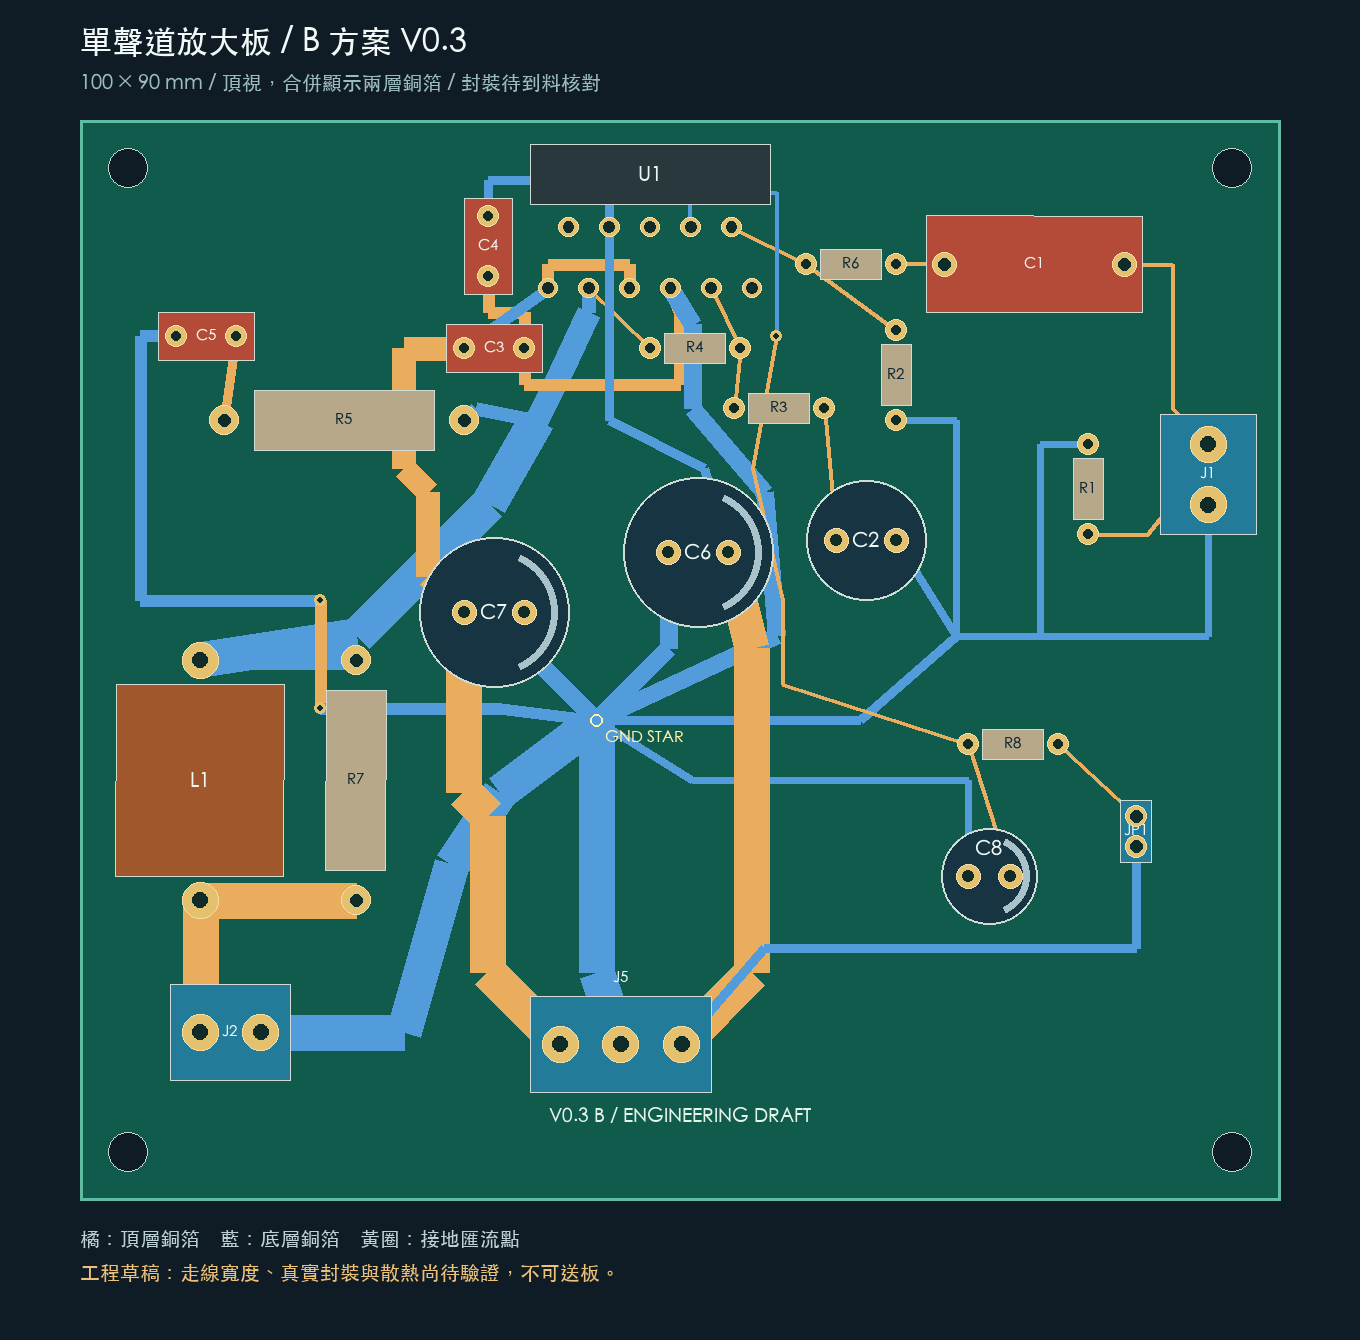
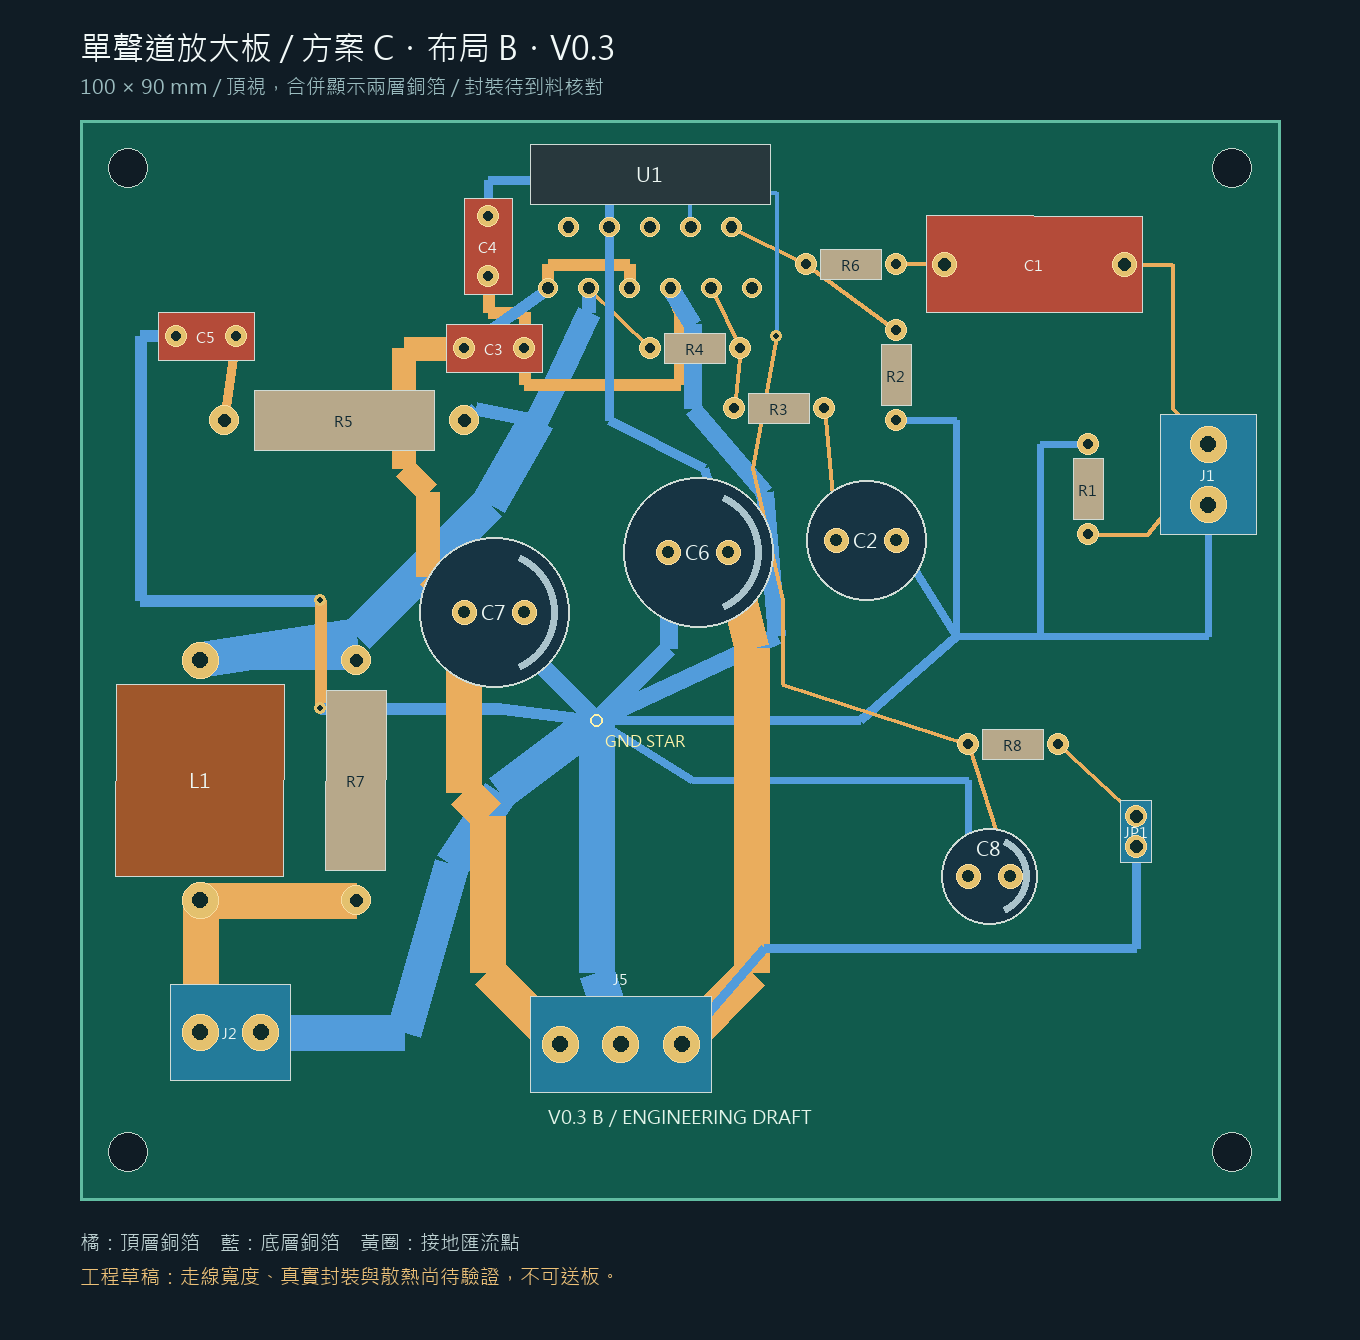
docs: 重建六張導讀圖與 PCB 預覽，同步 9/20 下單後狀態
- build_diagrams.py：C1/C3/C4/C8 耐壓改實購 100V、R8 改 0.6W；過期採購文字改現況；
  修正 R4 標籤被橙框遮住、GND 註記壓線；IC→輸出圖頁尾改指向 pcb/README.md
- sources.json 只綁生成器與 PDF（sch UUID 每次重建都變），文字來源 LF 正規化
- render_pcb_v03.py：標題「B 方案」改「方案 C PCB V0.3（布局 B）」，副標改現況
- 色塊導讀圖底圖仍為 9/16 PDF，待 KiCad 重建

Claude-Session: https://claude.ai/code/session_01VZFcAZi4ZF5VMXyWsJWQww

diff --git a/tools/build_diagrams.py b/tools/build_diagrams.py
@@ -55,7 +55,7 @@ class SVG:
         self.text(45,55,title,38,'white','bold');self.text(45,103,sub,23,'#dbe8f0')
     def footer(self,s):
         self.text(45,self.h-52,s,21,GRAY)
-        self.text(45,self.h-20,'方案 C V0.3  •  2026-09-17  •  工程草稿／無硬體量測  •  docs/diagrams/README.md',19,GRAY)
+        self.text(45,self.h-20,'方案 C V0.3  •  2026-09-22  •  工程草稿／無硬體量測  •  docs/diagrams/README.md',19,GRAY)
     def save(self,name):
         (SRC/(name+'.svg')).write_text(f'<svg xmlns="http://www.w3.org/2000/svg" xmlns:xlink="http://www.w3.org/1999/xlink" width="{self.w}" height="{self.h}" viewBox="0 0 {self.w} {self.h}">'+''.join(self.items)+'</svg>',encoding='utf-8')
 
@@ -71,7 +71,7 @@ def signal(mode='all'):
     d.text(915,500,'8 MUTE → 見電源／靜音圖',22,PURPLE,anchor='middle')
     input_start=len(d.items)
     d.line([(100,260),(305,260)]);d.text(80,210,'J1.1 RCA',25,BLUE)
-    d.cap(350,260,'C1 2.2µF / 63V')
+    d.cap(350,260,'C1 2.2µF / 100V')
     d.line([(395,260),(460,260)]);d.resistor(520,260,'R6 1kΩ')
     d.line([(580,260),(800,260)])
     for x,label in [(200,'R1 1MΩ'),(675,'R2 22kΩ')]:
@@ -135,7 +135,7 @@ def supply(d,y=0):
     d.line([(740,300+y),(1510,300+y)],RED)
     d.line([(740,395+y),(870,395+y),(870,580+y)],GRAY)
     d.line([(740,700+y),(870,700+y),(870,580+y),(1510,580+y)],GRAY)
-    d.dot(870,580+y,GRAY);d.text(910,562+y,'GND：BR1− 與 BR2+ 的 DC 中點',24,GRAY)
+    d.dot(870,580+y,GRAY);d.text(1525,625+y,'GND = BR1− 與 BR2+',22,GRAY);d.text(1525,655+y,'的 DC 中點',22,GRAY)
     d.line([(740,795+y),(1510,795+y)],BLUE)
     for x,labels in [(1020,('C201','C203')),(1290,('C202','C204'))]:
         for yy,a,b,label,col in [(440+y,300+y,580+y,labels[0],RED),(680+y,580+y,795+y,labels[1],BLUE)]:
@@ -164,15 +164,20 @@ def build():
     d=SVG(1800,1860);d.header('LM3886｜電源級到 IC','雙獨立 22Vac 次級各接全橋；12Vac 輔助繞組留供控制，模組輸入與電流待定。')
     supply(d)
     d.panel(50,980,815,'PSU → 放大板線束',['J203.1 → J5.1 VCC → U1/U2 pin 1、5。','J203.2 → J5.2 GND → U1/U2 pin 7 及各回地。','J203.3 → J5.3 VEE → U1/U2 pin 4。','兩份原理圖靠實體線束相接，同名標籤不跨檔接線。','R201/R202 各 2.2kΩ / 2W，分別跨正／負軌。','C205/C206 各 100nF / 100V，分別跨正／負軌。'],BLUE)
-    d.panel(905,980,845,'局部去耦（左聲道，右聲道編號 +100）',['VCC–GND：C3 100nF / 63V；C7 470µF / 63V。','GND–VEE：C4 100nF / 63V；C6 470µF / 63V。','C7 正端接 VCC；C6 正端接 GND。','PCB V0.3：C3/C4 地端在 IC 附近回 pin 7，','再由局部去耦支路回匯流區；訊號地另走支路。','GND 網名不表示各路電流應共用同一段細線。'],GREEN)
-    d.panel(50,1290,815,'靜音支路（左聲道）',['pin 8 → R8 22kΩ / 0.25W → JP1 → VEE。','C8 100µF / 63V：正端 GND，負端 pin 8。','JP1 閉合 RUN；開路 MUTE。右聲道為 JP2。','這是板級測試跳線；自動啟停／掉電控制待設計。'],PURPLE)
-    d.panel(905,1290,845,'供電條件與選型狀態',['22×√2 − 2×1.1 ≈ 28.9V／軌：未扣紋波／下陷。','35.8V／軌是高市電空載假設，非最大電壓保證。','僅變壓器與 IC 已訂、仍待到貨；其餘料件待購。','橋堆料號、保險絲、浪湧控制及散熱尚未定案。'],ORANGE)
+    d.panel(905,980,845,'局部去耦（左聲道，右聲道編號 +100）',['VCC–GND：C3 100nF / 100V；C7 470µF / 63V。','GND–VEE：C4 100nF / 100V；C6 470µF / 63V。','C7 正端接 VCC；C6 正端接 GND。','PCB V0.3：C3/C4 地端在 IC 附近回 pin 7，','再由局部去耦支路回匯流區；訊號地另走支路。','GND 網名不表示各路電流應共用同一段細線。'],GREEN)
+    d.panel(50,1290,815,'靜音支路（左聲道）',['pin 8 → R8 22kΩ / 0.6W → JP1 → VEE。','C8 100µF / 100V：正端 GND，負端 pin 8。','JP1 閉合 RUN；開路 MUTE。右聲道為 JP2。','這是板級測試跳線；自動啟停／掉電控制待設計。'],PURPLE)
+    d.panel(905,1290,845,'供電條件與選型狀態',['22×√2 − 2×1.1 ≈ 28.9V／軌：未扣紋波／下陷。','35.8V／軌是高市電空載假設，非最大電壓保證。','變壓器、IC、全部 R／C 已下單待到貨（9/16、9/20）。','橋堆、保險絲、電感、接頭、浪湧控制及散熱未購／未定案。'],ORANGE)
     d.panel(50,1540,1700,'機構與整機保護',['LM3886T 背板接 VEE，與接地機殼／散熱器間須具電氣絕緣；pin 2、6、11 為 NC。','保護接地 PE 的機殼連接不可由訊號 GND 替代；本圖僅次級與放大板導讀，一次側接線另行設計。'],RED)
-    d.footer('兩顆橋堆與四顆主電容均未購；未指定 KBPC2510 或 300VA，未宣稱實際輸出額定。');d.save('lm3886_power_to_ic')
+    d.footer('四顆主電容 CDE 381LX 已購待到貨；兩顆橋堆未購、未指定 KBPC2510，未宣稱實際輸出額定。');d.save('lm3886_power_to_ic')
     annotated('lm3886-v01','lm3886_sch_annotated',False)
     annotated('internal-psu-v02','lm3886_psu_sch_annotated',True)
-    sources=['tools/build_schematic.py','tools/build_power_supply.py','electrical/lm3886-v01.kicad_sch','electrical/internal-psu-v02.kicad_sch','electrical/preview/lm3886-v01.pdf','electrical/preview/internal-psu-v02.pdf','pcb/README.md']
-    (OUT/'sources.json').write_text(json.dumps({'version':'Plan C V0.3','updated':'2026-09-17','sha256':{p:hashlib.sha256((ROOT/p).read_bytes()).hexdigest() for p in sources}},indent=2),encoding='utf-8')
+    # .kicad_sch files carry fresh UUIDs on every rebuild, so their hashes are not reproducible; bind generators and exported PDFs only.
+    sources=['tools/build_schematic.py','tools/build_power_supply.py','tools/build_diagrams.py','electrical/preview/lm3886-v01.pdf','electrical/preview/internal-psu-v02.pdf']
+    def digest(p):
+        b=(ROOT/p).read_bytes()
+        if p.endswith('.py'): b=b.replace(b'\r\n',b'\n')  # LF-normalise text so Windows autocrlf checkouts match the repository hash
+        return hashlib.sha256(b).hexdigest()
+    (OUT/'sources.json').write_text(json.dumps({'version':'Plan C V0.3','updated':'2026-09-22','note':'kicad_sch and pcb/README.md removed from binding: sch UUIDs change per rebuild, README changes independently of the diagrams. Text sources hashed LF-normalised.','sha256':{p:digest(p) for p in sources}},indent=2,ensure_ascii=False),encoding='utf-8')
 
 def annotated(source,name,psu):
     d=SVG(2200,1940)
@@ -191,14 +196,14 @@ def annotated(source,name,psu):
         region(.05,.17,.41,.56,ORANGE);region(.47,.18,.36,.55,GREEN);region(.85,.39,.10,.16,BLUE)
         d.panel(40,1680,670,'橙框｜雙橋整流',['兩組獨立 22Vac 分別進 BR1／BR2。','AC 不互接；BR1− 與 BR2+ 接 GND。'],ORANGE)
         d.panel(765,1680,670,'綠框｜濾波、洩放',['C201–C204 各 10,000µF / 63V。','負軌電容正端朝 GND；每軌 20,000µF。'],GREEN)
-        d.panel(1490,1680,670,'藍框｜輸出線束',['J203.1/2/3 → 放大板 J5.1/2/3。','VCC／GND／VEE；其餘料件均待購。'],BLUE)
+        d.panel(1490,1680,670,'藍框｜輸出線束',['J203.1/2/3 → 放大板 J5.1/2/3。','VCC／GND／VEE；橋堆、保險絲、接頭仍待購。'],BLUE)
     else:
         for y in (.17,.51):
-            region(.05,y,.36,.16,BLUE);region(.31,y+.15,.14,.17,ORANGE);region(.435,y-.025,.16,.275,GREEN);region(.63,y,.28,.32,PURPLE)
+            region(.05,y,.36,.16,BLUE);region(.31,y+.135,.14,.185,ORANGE);region(.435,y-.025,.16,.275,GREEN);region(.63,y,.28,.32,PURPLE)
         d.panel(40,1680,500,'藍／橙框｜輸入與回授',['R6 為 1kΩ 串阻；R4 為 20kΩ。','R3 與 C2 串聯，右聲道編號 +100。'],BLUE)
         d.panel(580,1680,760,'綠框｜輸出穩定網路',['R5+C5 串聯到地；L1∥R7 串在輸出。','TEST OUT 供假負載，喇叭 DC 保護仍待設計。'],GREEN)
         d.panel(1380,1680,780,'紫框｜去耦與靜音',['負軌 C6、靜音 C8 的正端接 GND。','PCB V0.3 縮短 C3/C4 回 pin 7 路徑，網路未改。'],PURPLE)
-    d.footer('來源：electrical/preview/'+source+'.pdf；彩色導讀不取代原理圖／PCB 審查。');d.save(name)
+    d.footer('來源：electrical/preview/'+source+'.pdf（2026-09-16 重建）；底圖內耐壓值與採購註記待 KiCad 重建後更新。');d.save(name)
     doc.close()
 
 if __name__=='__main__':

diff --git a/docs/diagrams/README.md b/docs/diagrams/README.md
@@ -1,6 +1,6 @@
 # 方案 C V0.3 電路導讀圖
 
-更新：2026-09-17。六張 PNG 已取代 2026-09-13 舊圖，對齊目前兩份 V0.3 KiCad 原理圖與 PCB V0.3 的回流說明。原理圖、PCB、元件值與採購狀態未在本次更動；沒有新增硬體量測或重跑 ERC／DRC。舊圖可由 Git 歷史取回。
+更新：2026-09-22。六張 PNG 重建：四張向量圖的耐壓值改成實購規格（C1／C3／C4／C8 → 100V，R8 → 0.6W）、採購狀態改成 9/20 下單後的現況、修正 R4 標籤被框線遮住與 GND 註記壓線；兩張色塊導讀圖只更新外框與頁尾。**色塊圖底圖仍是 2026-09-16 的 KiCad PDF**，圖框內的 63V、「no PCB」與「NOT purchased」要等有 KiCad 的機器跑 `tools/rebuild.py` 才會消失（生成器已改好）。沒有新增硬體量測或重跑 ERC／DRC。
 
 | 圖片 | 內容 |
 |---|---|
@@ -21,7 +21,7 @@
 - R5 與 C5 串聯構成 Zobel；L1 與 R7 並聯後串入輸出。兩者不是喇叭 DC 保護。
 - C8 的正端接 GND，負端接 pin 8；pin 8 經 R8、RUN 跳線接 VEE。負軌 C6 正端也接 GND。
 - 約 ±30V 與 30–40W／8Ω 是規劃／探索範圍；沒有固定軌電壓或連續功率保證。35.8V／軌只是高市電空載假設。
-- 保留「僅變壓器與 IC 已訂待到貨」；整流橋、四顆主電容和其他料件仍待購。12Vac 控制、一次側及喇叭保護尚待設計。
+- 採購狀態：變壓器、IC、全部電阻／電容已下單待到貨；整流橋、保險絲、電感、接頭等未購。12Vac 控制、一次側及喇叭保護尚待設計。
 
 ## 來源與核對
 
@@ -33,12 +33,12 @@
 
 ## 重建
 
-可編輯原稿位於 [svg/](svg/)，SHA-256 來源清單在 [sources.json](sources.json)。需要 Python 3、PyMuPDF，以及 Node.js、sharp；中文字型預設 Microsoft JhengHei，其他平台需 Noto Sans CJK TC。
+可編輯原稿位於 [svg/](svg/)，SHA-256 來源清單在 [sources.json](sources.json)；清單只綁三個生成器與兩份 PDF，不再綁 `.kicad_sch`（每次重建 UUID 都變，雜湊不可重現）與 `pcb/README.md`。需要 Python 3、PyMuPDF，以及 Node.js、sharp；中文字型預設 Microsoft JhengHei，其他平台需 Noto Sans CJK TC。
 
 ```sh
-python -m pip install pymupdf
+py -3.13 -m pip install pymupdf        # Windows 本機：PyMuPDF 與 Pillow 只在 Python 3.13
 # sharp 可安裝於外部工具環境，並以 NODE_PATH 指向其 node_modules。
-python tools/build_diagrams.py
+py -3.13 tools/build_diagrams.py
 node tools/render_diagrams.cjs
 ```
 
